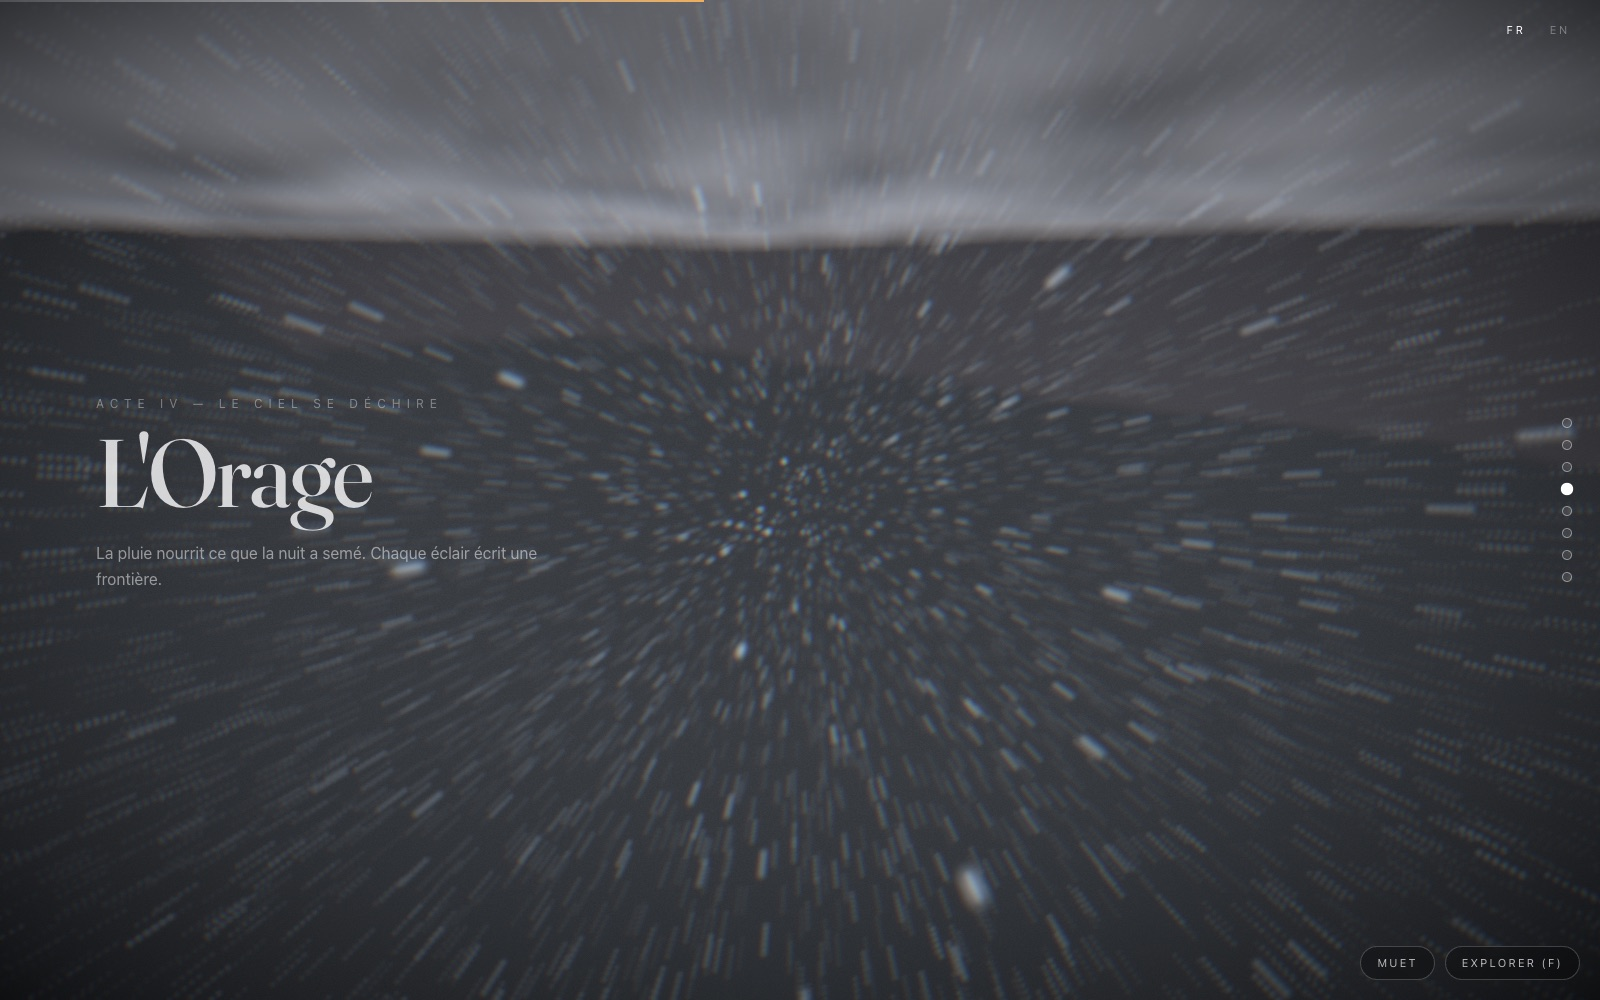
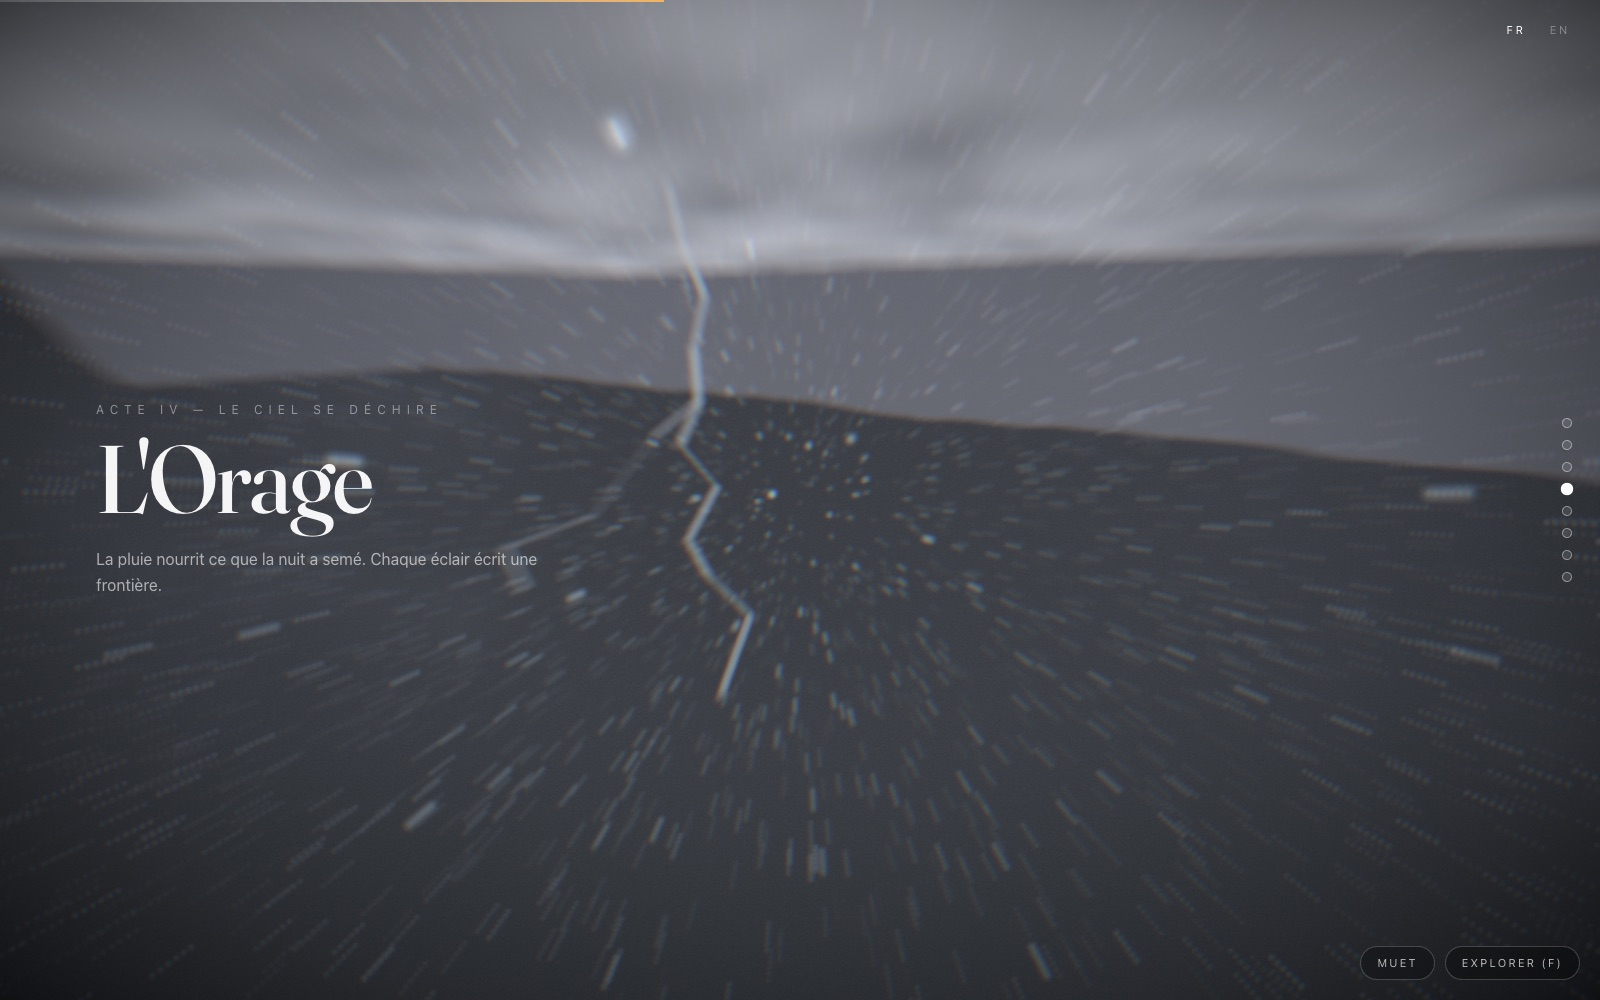
fix: charcoal volcano (light rig was painting it red) + instant first strike
- the volcano's own light sources tinted the whole cone orange (sun 0.55
  orange + reddish ambient + flank-wide crater glow term) — night mountain
  is now lit cool and dim, crater glow tightened to a rim halo, basalt
  de-redded: fire lives ONLY in the lava, rim and embers
- lightning: first strike 0.35s after the activity threshold (forward
  scrollers crossed the act before the old 2.5s warm-up — bolts only ever
  seen scrolling backward), cadence tightened, activity starts at 0.375
- README: storm capture now shows a full bolt piercing the rain; volcano
  capture shows the charcoal silhouette cut by the lava ribbon

diff --git a/src/components/3d/shaders/terrain.ts b/src/components/3d/shaders/terrain.ts
@@ -48,18 +48,19 @@ void main() {
   vec3 albedo = mix(grass, rock, smoothstep(0.18, 0.5, slope));
   albedo = mix(uSandColor * (0.8 + detail * 0.3), albedo, smoothstep(-1.6, 1.4, vWorldPos.y));
   // Near the crater: basalt charcoal broken by oxidized rust patches.
+  // Near the crater the ground turns charcoal basalt — grey-black, not red.
   float nearCrater = exp(-distance(vWorldPos.xz, uCraterPos.xz) * 0.011);
-  vec3 basalt = mix(vec3(0.07, 0.06, 0.055), vec3(0.16, 0.08, 0.055), smoothstep(0.4, 0.8, detail));
+  vec3 basalt = mix(vec3(0.055, 0.052, 0.05), vec3(0.115, 0.105, 0.1), smoothstep(0.4, 0.8, detail));
   albedo = mix(albedo, basalt * (0.7 + detail * 0.6), smoothstep(0.08, 0.5, nearCrater));
 
   float light = halfLambert(n, uSunDir) * uSunIntensity;
   vec3 col = albedo * (uAmbientColor * uAmbientIntensity * 3.0 + uSunColor * light * 2.0);
 
-  // Crater glow bleeding onto the volcano flank.
+  // Crater glow: a tight rim of fire at the mouth — NOT a flank-wide tint.
   if (uLavaGlow > 0.001) {
     float d = distance(vWorldPos.xz, uCraterPos.xz);
-    float glow = exp(-d * 0.045) * uLavaGlow * (0.8 + 0.2 * sin(uTime * 2.2));
-    col += vec3(1.0, 0.32, 0.05) * glow;
+    float glow = exp(-d * 0.11) * uLavaGlow * (0.8 + 0.2 * sin(uTime * 2.2));
+    col += vec3(1.0, 0.32, 0.05) * glow * 0.9;
   }
 
   float dist = length(cameraPosition - vWorldPos);

diff --git a/src/components/3d/scenes/storm/Lightning.tsx b/src/components/3d/scenes/storm/Lightning.tsx
@@ -85,6 +85,7 @@ export function Lightning() {
   const lightRef = useRef<THREE.PointLight>(null);
   const countdown = useRef(2.5);
   const restrike = useRef(0);
+  const wasActive = useRef(false);
   const forward = useRef(new THREE.Vector3()).current;
 
   const boltGeometry = useMemo(() => {
@@ -126,10 +127,19 @@ export function Lightning() {
       }
     }
     const activity = uniformProxies.acts.lightningActivity;
-    if (activity < 0.05) return;
+    if (activity < 0.05) {
+      wasActive.current = false;
+      return;
+    }
+    // First strike lands FAST on entry — a forward scroller crosses the act
+    // in seconds and must not leave before the sky answers.
+    if (!wasActive.current) {
+      wasActive.current = true;
+      countdown.current = 0.35;
+    }
     countdown.current -= dt;
     if (countdown.current > 0) return;
-    countdown.current = 0.9 + (Math.random() * 3.2) / activity;
+    countdown.current = 0.6 + (Math.random() * 2.2) / activity;
     // Strike INSIDE the camera's forward cone, wherever the rig is looking —
     // the camera travels the whole act, a fixed zone kept missing the frame.
     state.camera.getWorldDirection(forward);

diff --git a/src/config/palette.ts b/src/config/palette.ts
@@ -97,10 +97,12 @@ export const PALETTES: Record<ActId, ActPalette> = {
     fogDensity: 0.026,
     skyTop: [0.022, 0.014, 0.016],
     skyBottom: [0.13, 0.05, 0.028],
-    sunColor: [1, 0.45, 0.15],
-    sunIntensity: 0.55,
-    ambientColor: [0.6, 0.3, 0.2],
-    ambientIntensity: 0.2,
+    // The MOUNTAIN is charcoal night — cool dim light; fire belongs to the
+    // lava, the crater rim and the embers, never to the light rig.
+    sunColor: [0.5, 0.44, 0.5],
+    sunIntensity: 0.3,
+    ambientColor: [0.3, 0.27, 0.32],
+    ambientIntensity: 0.18,
     temperature: 0.5,
     saturation: 1.05,
     starIntensity: 0.1,

diff --git a/src/timelines/acts/stormTl.ts b/src/timelines/acts/stormTl.ts
@@ -10,7 +10,7 @@ export function buildStormTl(tl: gsap.core.Timeline): void {
   tl.to(a, { fireflyIntensity: 0, duration: 0.03 }, 0.35);
   tl.to(a, { moonIntensity: 0.25, duration: 0.04 }, 0.36);
   tl.to(a, { rainIntensity: 1, duration: 0.06, ease: "power2.in" }, 0.37);
-  tl.to(a, { lightningActivity: 1, duration: 0.05 }, 0.4);
+  tl.to(a, { lightningActivity: 1, duration: 0.04 }, 0.375);
   tl.to(uniformProxies.wind, { x: 3.2, z: 1.1, duration: 0.06 }, 0.36);
   // Crescendo shape: build to a violent peak mid-act, then ease off slightly.
   tl.to(uniformProxies.camera, { shake: 0.38, duration: 0.05 }, 0.38);
